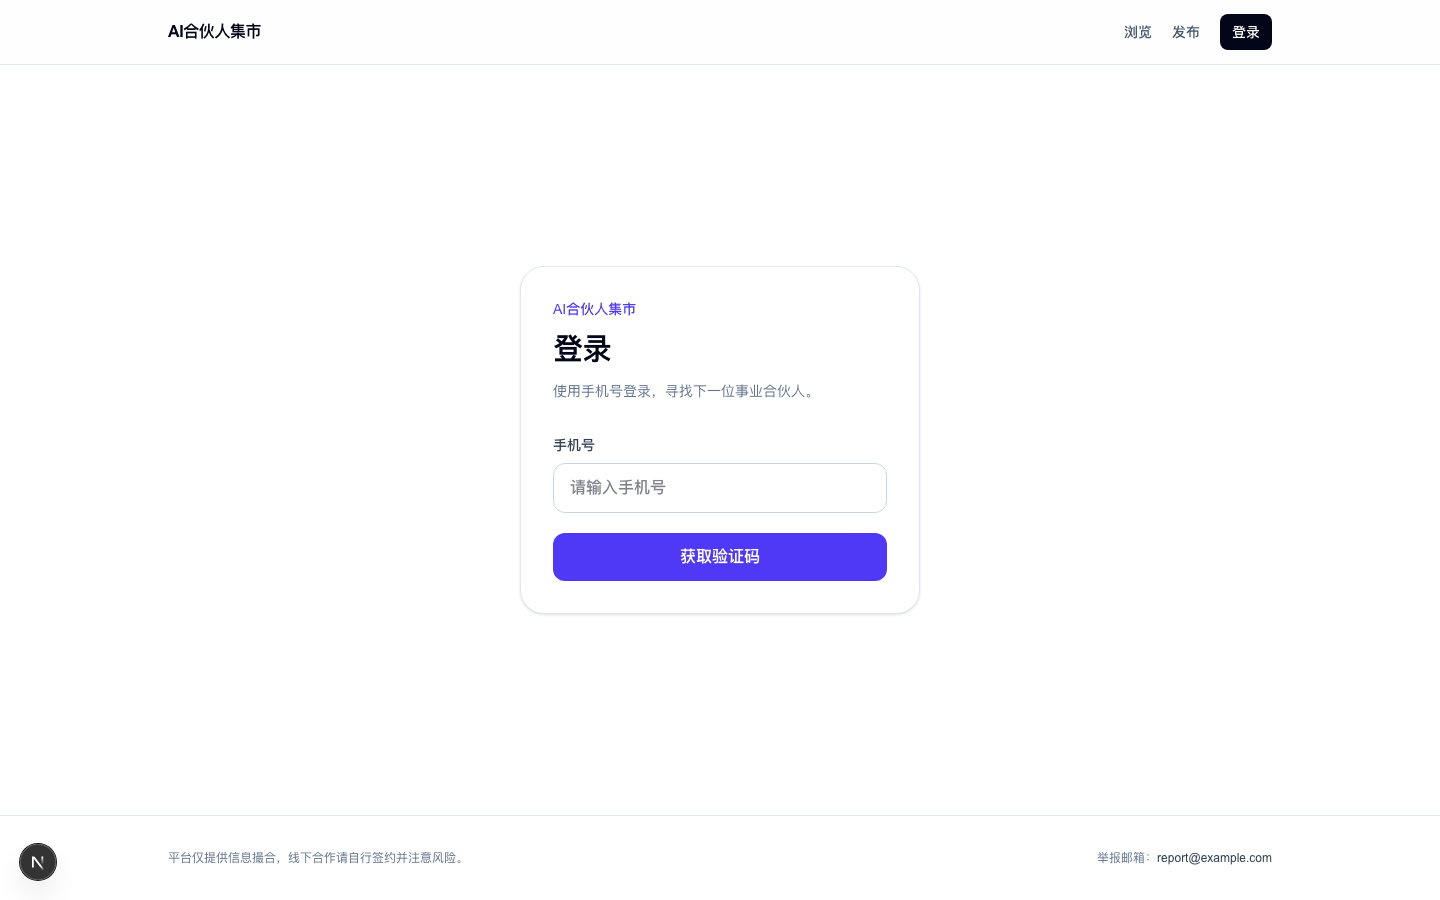
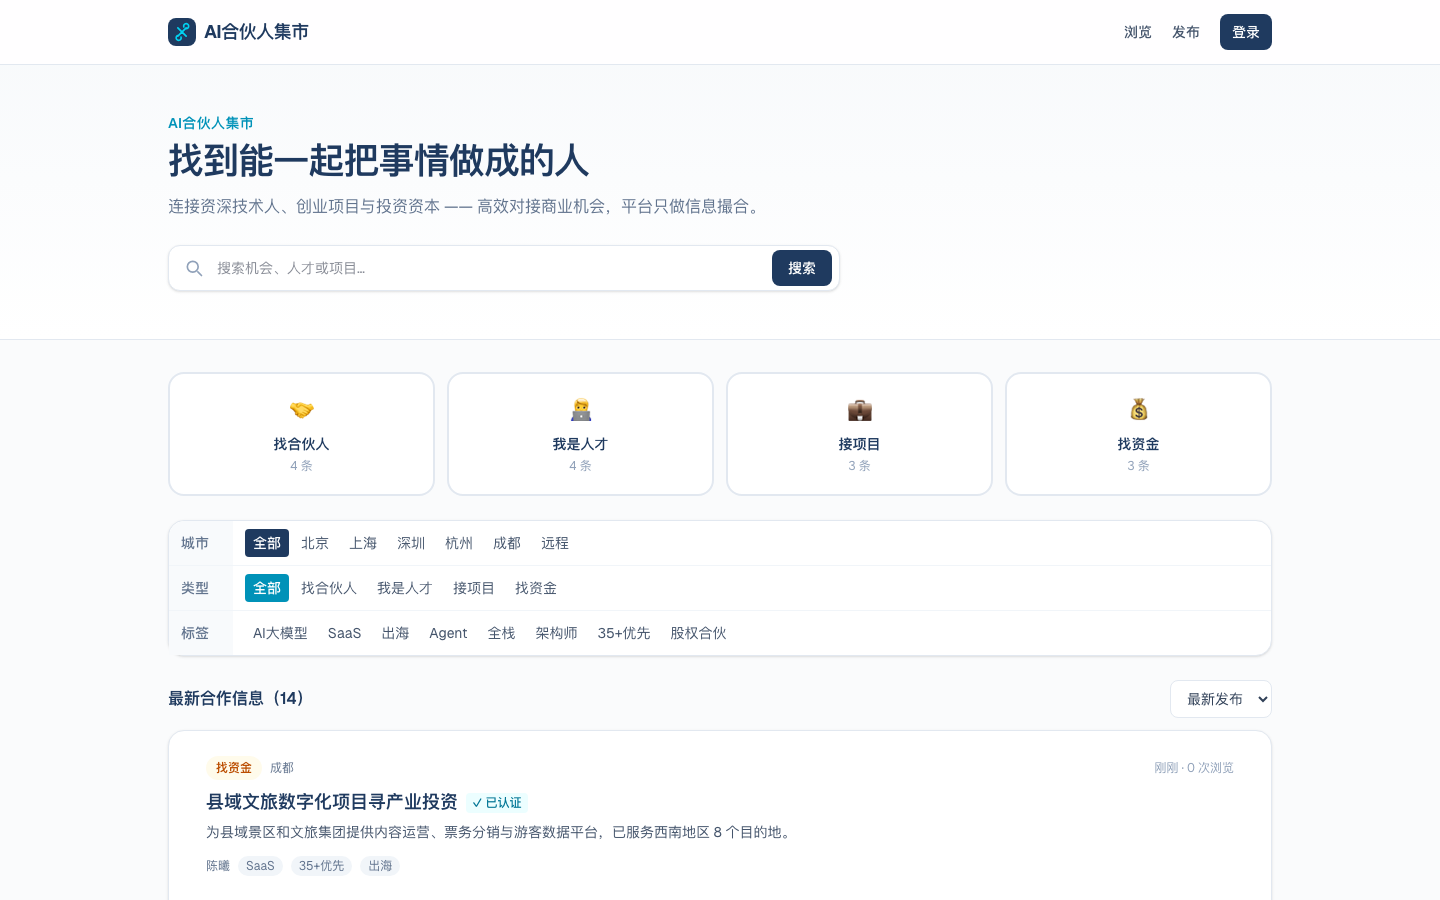
docs: capture updated UI screenshots for home/detail/publish/login/me

diff --git a/scripts/screenshot.config.js b/scripts/screenshot.config.js
@@ -7,7 +7,7 @@ export default {
   // ── Targets ──────────────────────────────────────────────────────────────
   // Define one or more base URLs to screenshot.
   targets: {
-    localhost: "http://localhost:3001",       // Next.js default
+    localhost: "http://localhost:3100",       // Next.js production server
     // localhost: "http://localhost:5173",    // Vite/React default
     // localhost: "http://localhost:8000",    // FastAPI SPA default
     // vercel: "https://your-app.vercel.app", // deployed version
@@ -69,5 +69,10 @@ export default {
   //     { path: "/", name: "Home" },
   //   ],
   // },
-  manualRoutes: [],
+  manualRoutes: [
+    { path: "/", name: "Home" },
+    { path: "/posts/seed-post-01", name: "Post Detail" },
+    { path: "/posts/new", name: "Publish" },
+    { path: "/login", name: "Login" },
+  ],
 };

diff --git a/README.md b/README.md
@@ -141,8 +141,12 @@ Private project (`package.json` `"private": true`).
 <!-- screenshots -->
 ## Screenshots
 
-| 首页 |
-| --- |
-| ![首页](screenshots/home.png) |
+| Home | Post Detail | Publish |
+| --- | --- | --- |
+| ![Home](screenshots/home.png) | ![Post Detail](screenshots/post-detail.png) | ![Publish](screenshots/publish.png) |
+
+| Search | Login | Me |
+| --- | --- | --- |
+| ![Search](screenshots/home-search.png) | ![Login](screenshots/login.png) | ![Me](screenshots/me.png) |
 
 <!-- /screenshots -->
